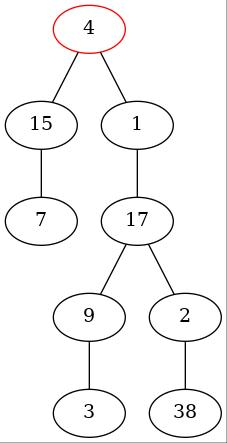
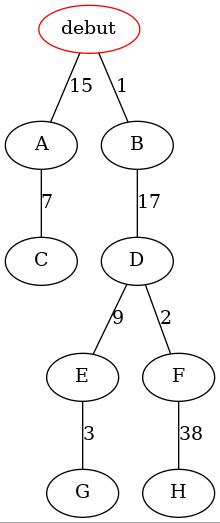
ajout glouton

Changed region(s): [[0.0, 0.0, 1.0, 1.0], [0.1909, 0.6163, 0.5727, 0.9977], [0.0, 0.4695, 0.0545, 0.5282]]

diff --git a/premiere/algorithme_glouton/cours.md b/premiere/algorithme_glouton/cours.md
@@ -33,7 +33,10 @@ On peut symboliser la démarche gloutonne d'un algorithme par l'exemple suivant 
 
 ![](chemins_output.png)
 
-Ce schéma représente une forêt dans laquelle il y a plusieurs chemins. Chaque chemins de la forêt.  
+Ce schéma représente un bois dans laquelle il y a des chemins(les arêtes) et des croisements(les sommets). Chaque chemin possède un nombre de noisettes. 
+
+Question :
+Quel parcours doit effectuer un écureuil à travers le bois pour récupérer le plus de noisettes sur son passage ? 
 
 ## Exemples 
 
